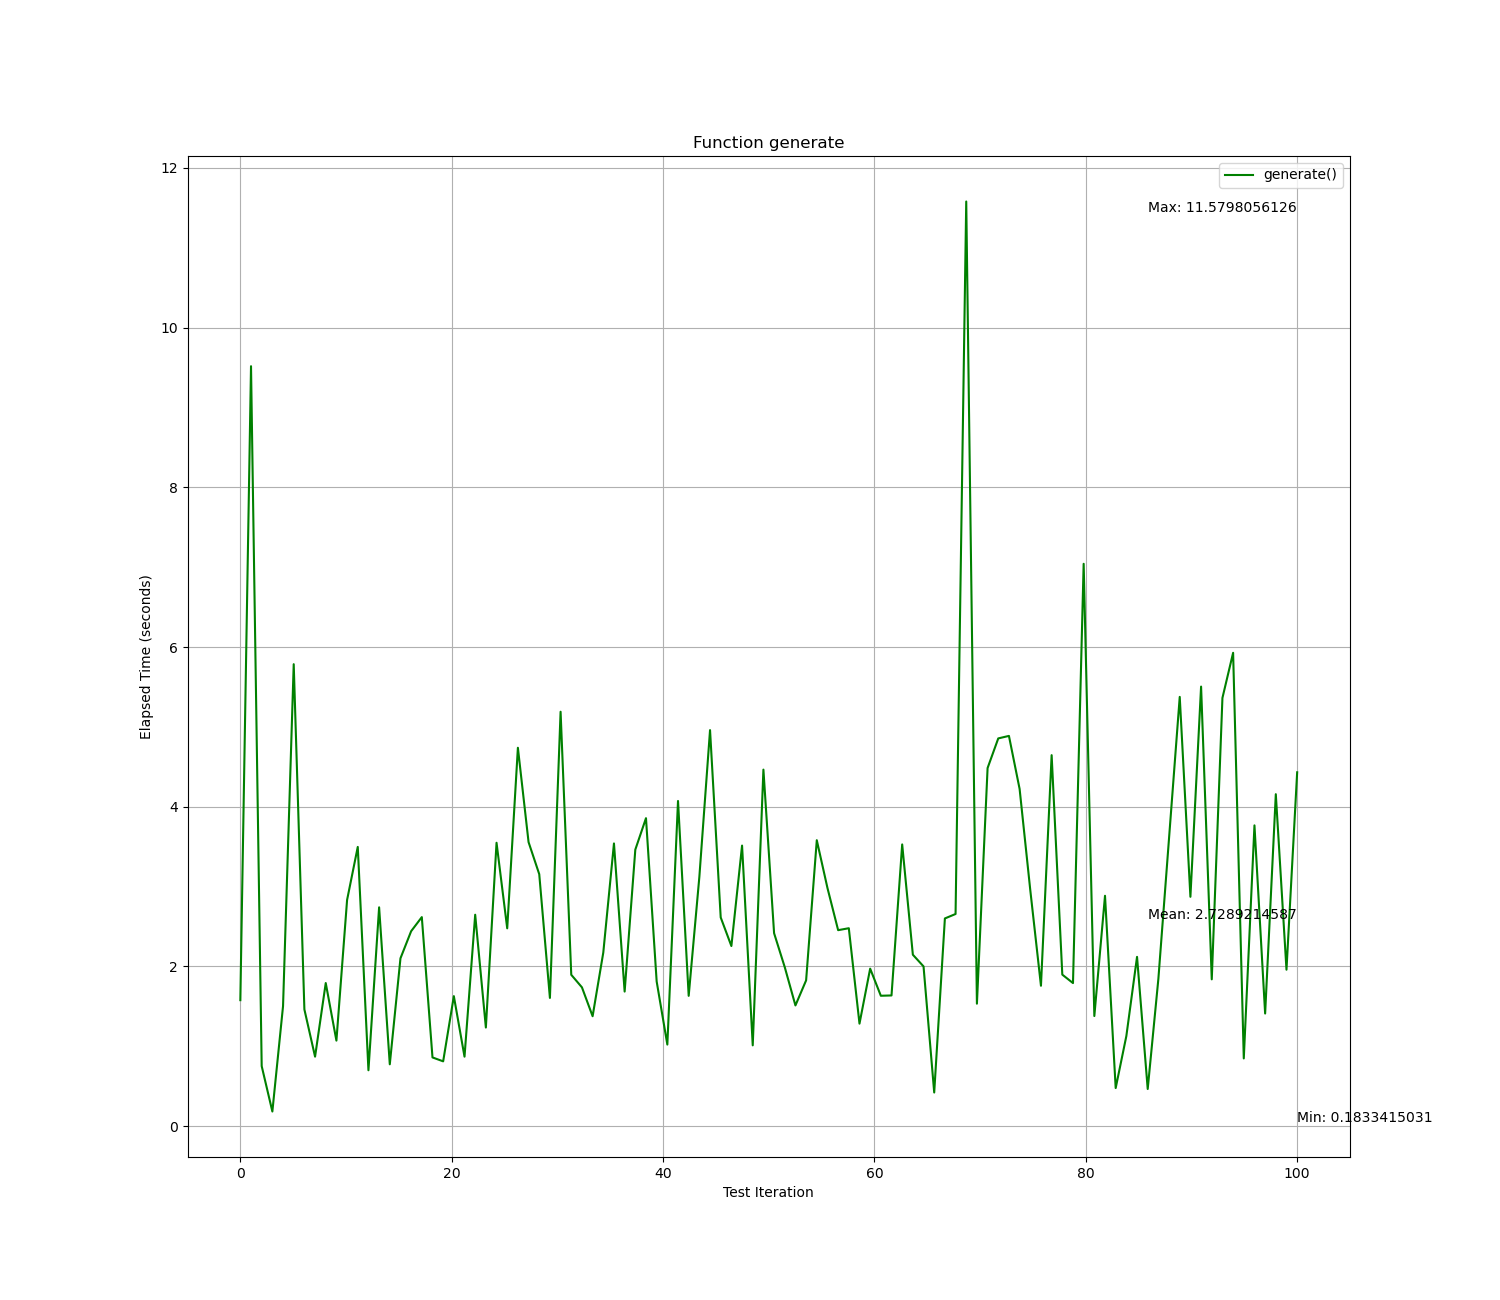
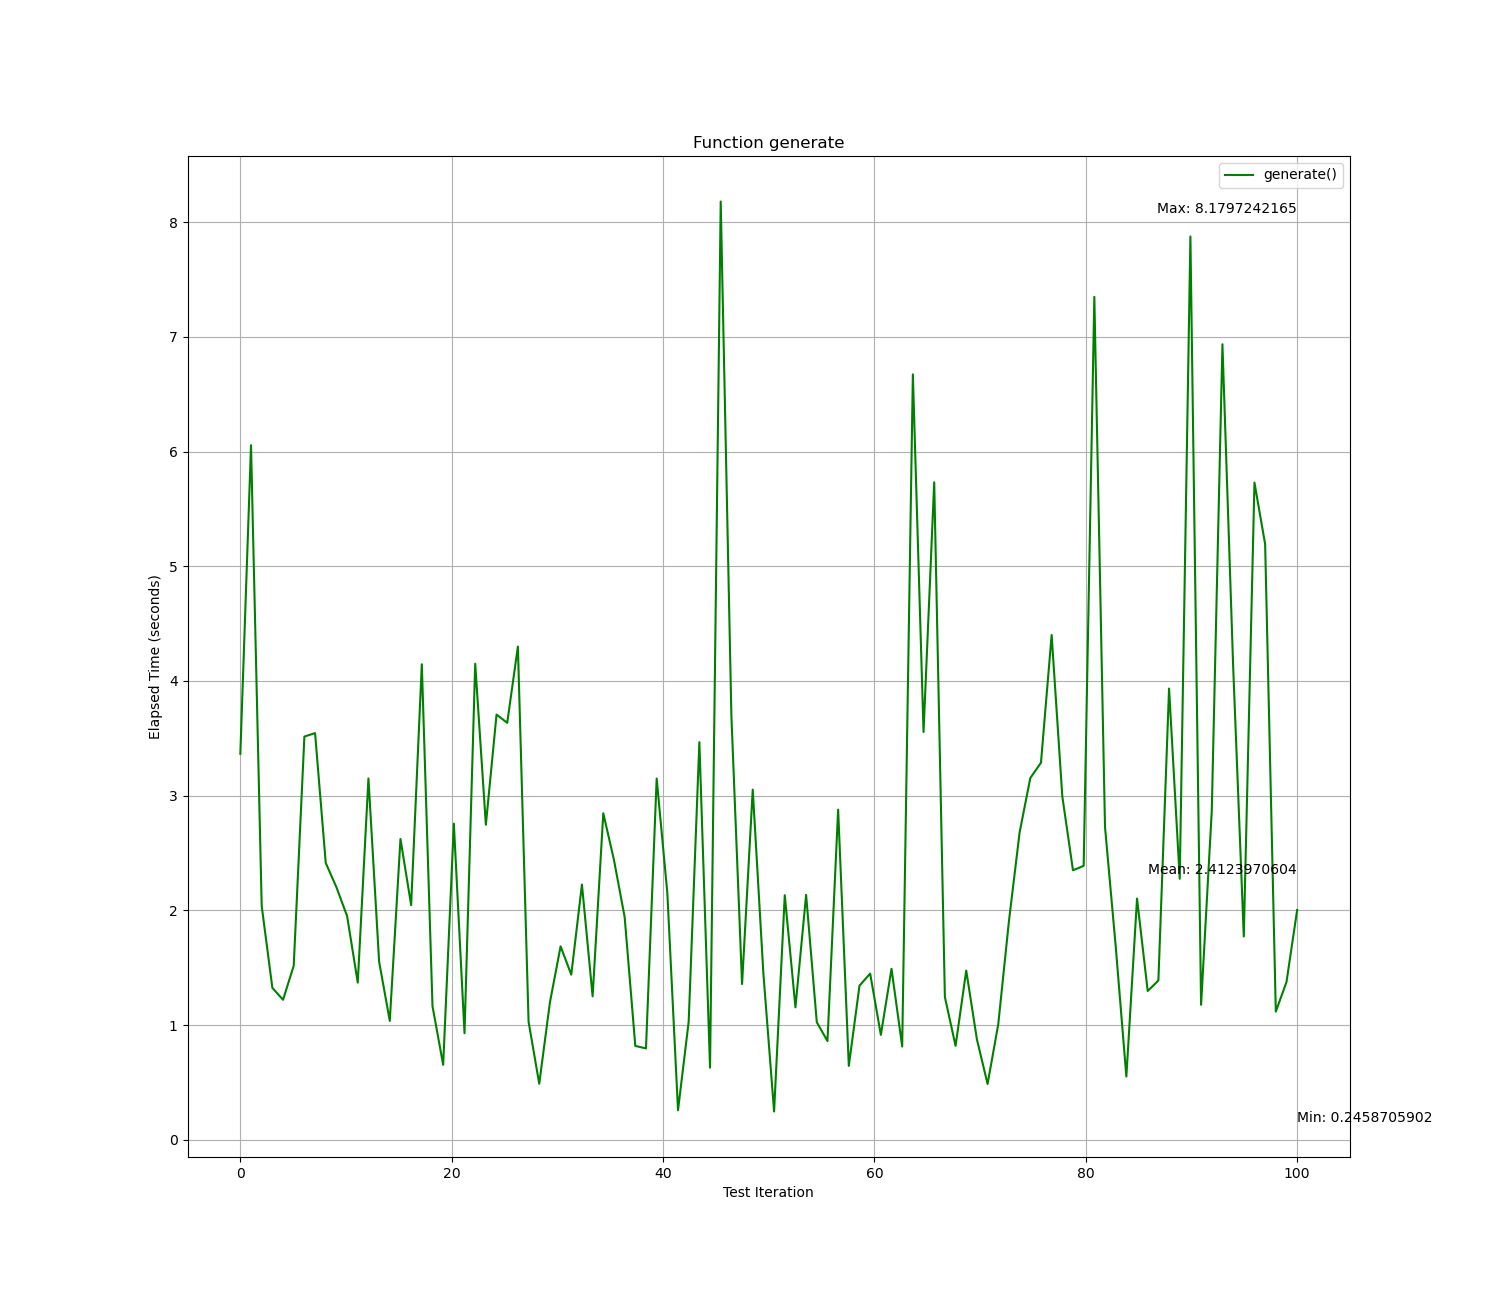
version v1.5: RSA_GMP

diff --git a/pubcrypt/cryptosystem/rsa_GMP.py b/pubcrypt/cryptosystem/rsa_GMP.py
@@ -1,0 +1,51 @@
+import gmpy2, os, random
+from gmpy2 import mpz, isqrt, gcd, powmod, random_state, lcm
+from pubcrypt.number.primality_GMP import get_prime_factor
+
+
+def generate_gmp(nBits, e=65537):
+    if nBits < 2048:
+        raise ValueError("Incorrect key length. nBits must be equal or greater than 2048")
+    
+    elif e % 2 == 0 or not pow(2, 16) <= e <= pow(2, 256):
+        raise ValueError("Incorrect public exponent. e must be odd and in the range [2^16, 2^256]")
+    
+    pBits = nBits // 2
+    random.seed(int.from_bytes(os.urandom(32), byteorder='big'))
+    state = random_state()
+    
+    p, q = get_prime_factor(pBits, e, state)
+    d = powmod(e, -1, lcm(p - 1, q - 1))
+    n = p * q
+
+    if pair_wise_consistency_test(n, e, d, state) == 0:
+        raise ValueError("Error, please retry. Consistency test failed")
+    return n, e, d
+
+
+def primitive_exp(m, exp, n):
+    """ This function represents the encryption/decryption/signature operation """
+    if 0 < m < n - 1:
+        return powmod(m, exp, n)
+    else:
+        raise ValueError("Data representative out of range")
+
+
+def prime_recovery(n, e, d):
+    """ Recover the prime factors p and q that compose N """
+    a = (d * e - 1) * gcd(n - 1, d * e - 1)
+    m = a // n
+    r = a - m * n
+    b = (n - r) // (m + 1) + 1
+
+    if pow(b, 2) <= (n << 2):
+        raise ValueError("Error")
+
+    y = isqrt(pow(b, 2) - (n << 2))
+    return (b + y) >> 1, (b - y) >> 1
+
+
+def pair_wise_consistency_test(n, e, d, state):
+    """ Check if the generated keypair can encrypt and decrypt correctly a plaintext m """
+    m = gmpy2.mpz_random(state, n // 2) + 1
+    return m == primitive_exp(m, e * d, n)

diff --git a/pubcrypt/number/primality_GMP.py b/pubcrypt/number/primality_GMP.py
@@ -1,0 +1,57 @@
+import gmpy2, os
+from gmpy2 import mpz, isqrt, gcd, powmod
+
+
+r = 5
+
+def get_prime_factor(pBits, e, state):
+    """ Generate a prime factor """
+    i = 0
+    candidate = mpz(0)
+
+    while candidate == 0:
+        while i < (5 * pBits):
+            p = gmpy2.mpz_random(state, 2 ** pBits)
+            if p & 1 == 0:  # if the number is odd, add one
+                p |= 1
+
+            if p >= (isqrt(2) << (pBits - 1)):
+                if gcd(p - 1, e) == 1:
+                    candidate = miller_rabin(p, r, state)
+                    break
+            i += 1
+
+    i = 0
+    candidate = mpz(0)
+    while candidate == 0:
+        while i < 5 * pBits:
+            q = gmpy2.mpz_random(state, 2 ** pBits)
+            if q & 1 == 0:
+                q |= 1
+
+            if (abs(p - q) > pow(2, (pBits // 2) - 100)) or (q >= (isqrt(2) << (pBits - 1))):
+                if gcd(q - 1, e) == 1:
+                    candidate = miller_rabin(q, r, state)
+                    break
+            i += 1
+    return p, q
+
+def miller_rabin(p, r, state):
+    s, d = 0, p - 1
+    while d & 1 == 0:
+        d >>= 1
+        s += 1
+
+    for _ in range(r):
+        a = gmpy2.mpz_random(state, p - 3) + 2
+        x = powmod(a, d, p)
+        if x == 1 or x == p - 1:
+            continue
+        for _ in range(s - 1):
+            x = powmod(x, 2, p)
+            if x == p - 1:
+                break
+        else:
+            return 0
+
+    return 1

diff --git a/benchmark.py b/benchmark.py
@@ -1,3 +1,4 @@
+from pubcrypt.cryptosystem.rsa_GMP import *
 from pubcrypt.cryptosystem.rsa import *
 from pubcrypt.number.primality import *
 from pubcrypt.number.util import *
@@ -52,5 +53,11 @@ def rng_test():
     obj.measure_execution_time(n, os.urandom, 2048)
     obj.plot_data(["green", "red", "blue", "purple"], ["getrandbits()", "randint()", "randrange()", "urandom()"], show_stats=False)
 
+def rsa_GMP_test():
+    n = 100
+    obj = GraphVisualization("RSA GMP generate function")
+    obj.measure_execution_time(n, generate_gmp, 4096)
+    obj.plot_data(["green"], ["generate_gmp()"], show_stats=True)
+
 if __name__ == "__main__":
-    plotting_sample()
+    rsa_GMP_test()

diff --git a/README.md b/README.md
@@ -48,27 +48,27 @@ pubcrypt/cryptosystem/rsa.py
 | primitive_exp          | m, exp, n       |   plaintext or ciphertext  |
 | prime_recovery         | n, e, d         |    p, q |
 
-```
-nBits = the size in bits of your key [2048, 8192] <br>
-n = public modulus <br>
-e = public exponent <br>
-d = private exponent <br>
-exp = public or private exponent <br>
-p, q = first and second primeArithmetic algorithm: gcd, lcm, sqrt, fast_exponentiation, 
- factor <br>
-``` 
+------------------------------------------
+
+pubcrypt/cryptosystem/rsa_gmp.py
+| functions              | Parameters      | Return             |
+| :--------------:       |:---------------:| :-----------------:|
+| generate_gmp               | nBits, e=65537  |  public and private keypair: n, e, d   |
 
 ------------------------------------------
 
 pubcrypt/number/primality.py:
 | functions              | Parameters      | Return             |
 | :--------------:       |:---------------:| :-----------------:|
+| get_prime_factors_gmp      | pBits, e, state        |  prime factor p and q         |
+
+----------------------------------------
+
+pubcrypt/number/primality.py:
+| functions              | Parameters      | Return             |
+| :--------------:       |:---------------:| :-----------------:|
 | get_prime_factors      | pBits, e        |  prime factor p and q         |
 | miller_rabin           | p, r            | PRIME or NOT_PRIME |
-
-``` 
-r = number of round for Miller Rabin primality test. Set to 5
-``` 
 
 ----------------------------------------
 
@@ -105,6 +105,10 @@ Find two samples in the benchmark.py file.
 - RSA message encryption and decryption
 - RSA prime factors recovery
 
+- RSA_GMP keypair generator
+- RSA_GMP get_prime_factor
+- RSA_GMP miller-rabin
+
 
 # Version
 
@@ -115,6 +119,7 @@ Find two samples in the benchmark.py file.
 | v1.2             | miller-rabin improvement that allow to generate key pairs faster      |
 | v1.3             | correction of the get_prime_factor function |
 | v1.4             | proper versionn with good performance + benchmark |
+| v1.5             | new feature: RSA_GMP. Arithemic operations are handled by gmpy2 |
 
 # Author
 You can contact me and see my work here:
@@ -127,3 +132,4 @@ You can contact me and see my work here:
  - [NIST SP 800-56Br2: Recommendation for Pair-Wise Key Establishment Using Integer Factorization Cryptography](https://nvlpubs.nist.gov/nistpubs/SpecialPublications/NIST.SP.800-56Br2.pdf)
  - [PKCS #1 Version 2.2: RSA Cryptography Specifications draft-moriarty-pkcs1-01](https://datatracker.ietf.org/doc/pdf/draft-moriarty-pkcs1-01.pdf)
  - [RosettaCode](https://rosettacode.org/wiki/Rosetta_Code)
+ - [gmpy2 documentation](https://gmpy2.readthedocs.io/en/latest/intro.html)
